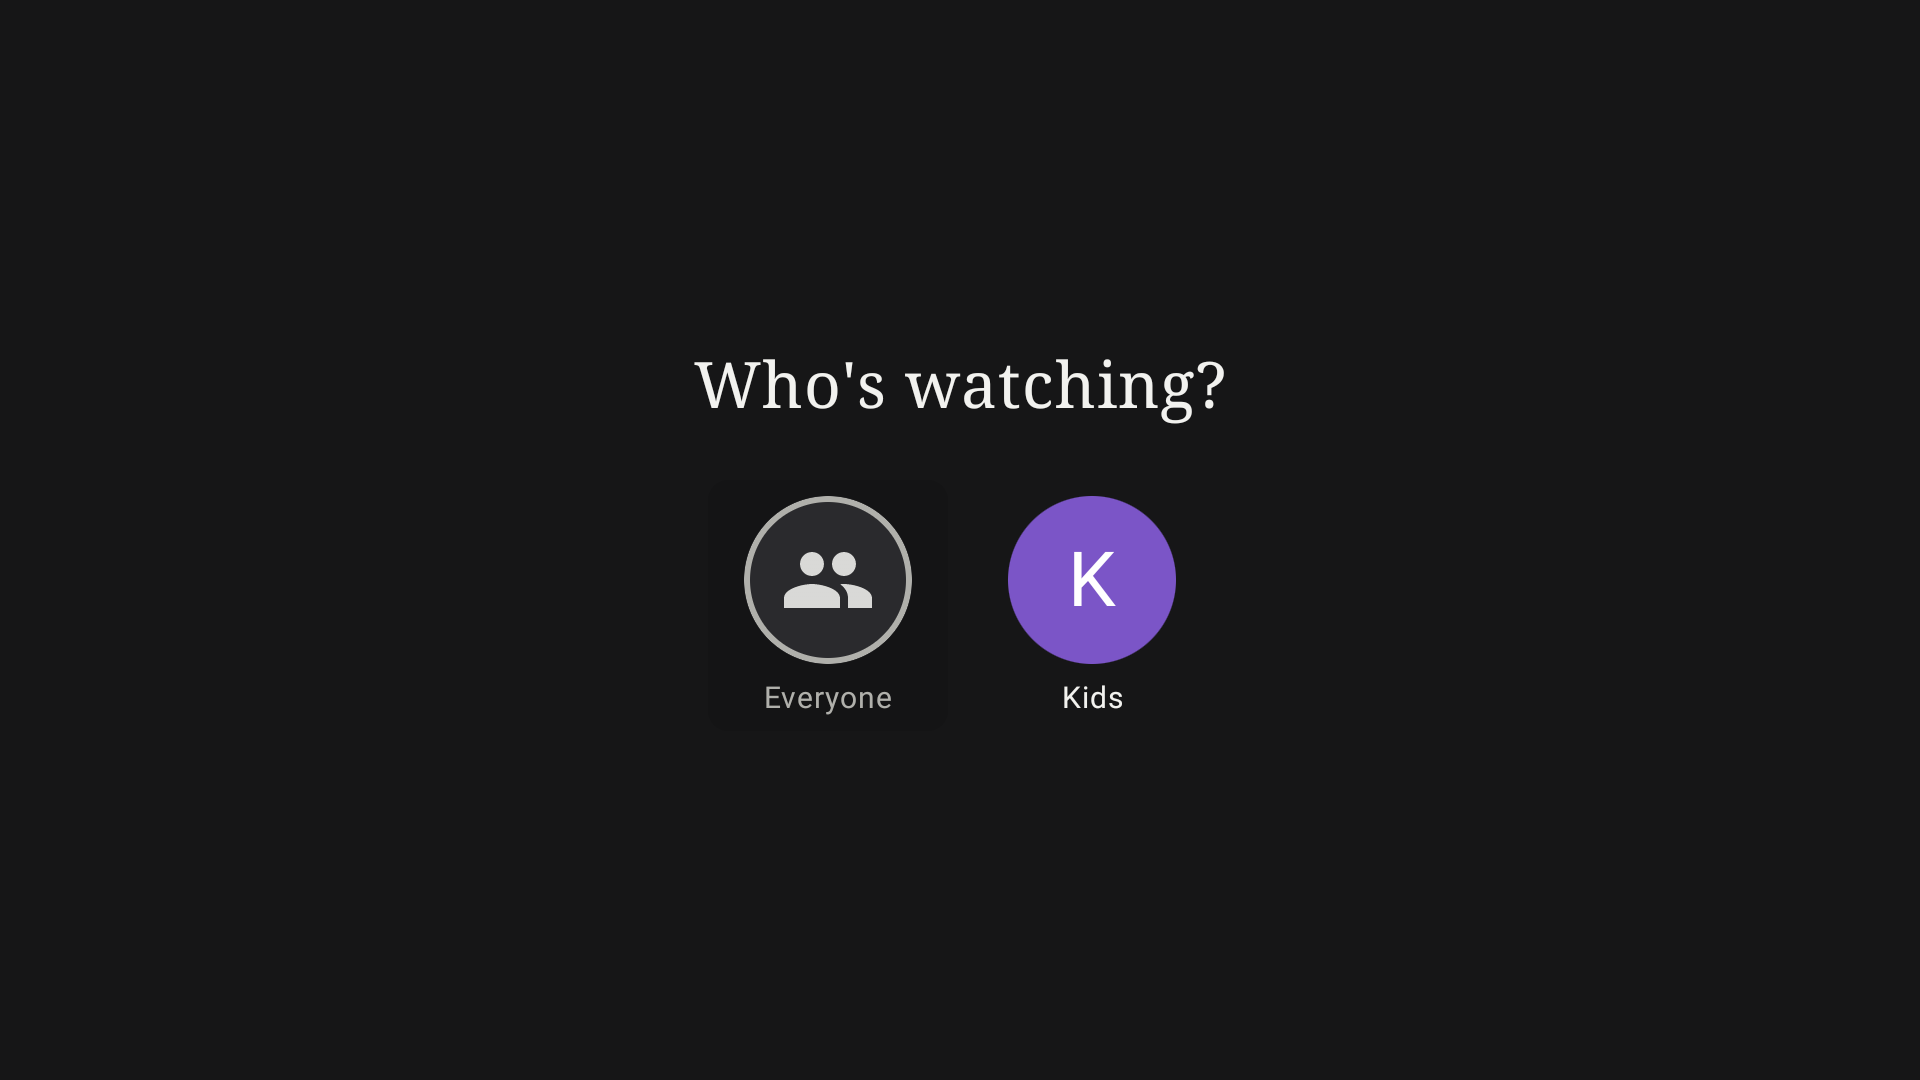
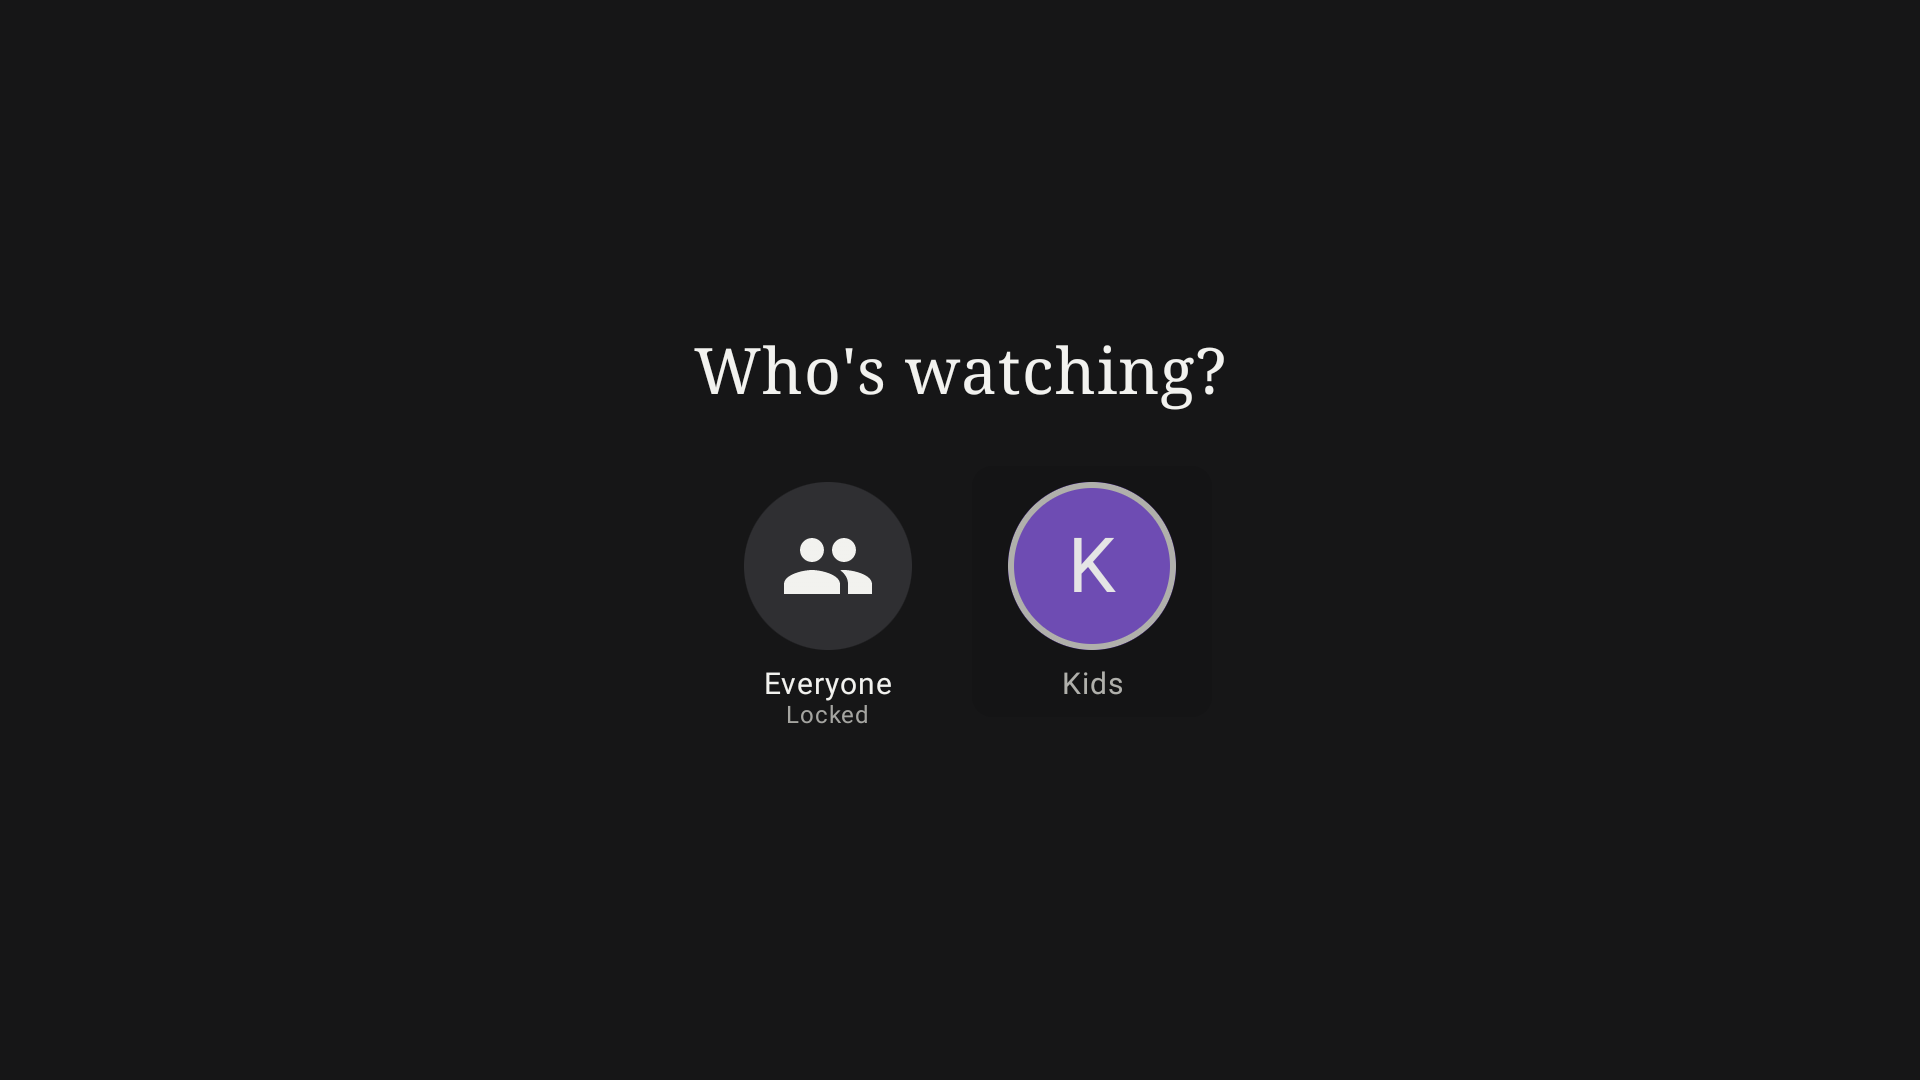
Store screenshot: Who's watching? from Kids, with Everyone locked

Changed region(s): [[0.375, 0.4278, 0.625, 0.6722], [0.3438, 0.3056, 0.6562, 0.3972]]

diff --git a/store/README.md b/store/README.md
@@ -11,7 +11,7 @@ reasons are in `isputnik.home/docs/tv-store-plan.md` (A = Amazon, G = Google).
 - **Screenshots** (`screenshots/`): six at 1920×1080, RGB, taken 2026-11-11 from the Fire TV
   running the 0.13.1 store APK, signed in to the demo as the Amazon reviewer (never the
   family's server): Movies, a show's episodes, the player with Skip intro, a film, Photos, a
-  photo full screen; and a seventh from 0.14.0, Who's watching? with Everyone and Kids.
+  photo full screen; and a seventh from 0.14.0, Who's watching? in Kids, with Everyone Locked.
   Retake with `adb exec-out screencap -p > shot.png`; a slideshow needs a few tries to miss
   the crossfade.
 
